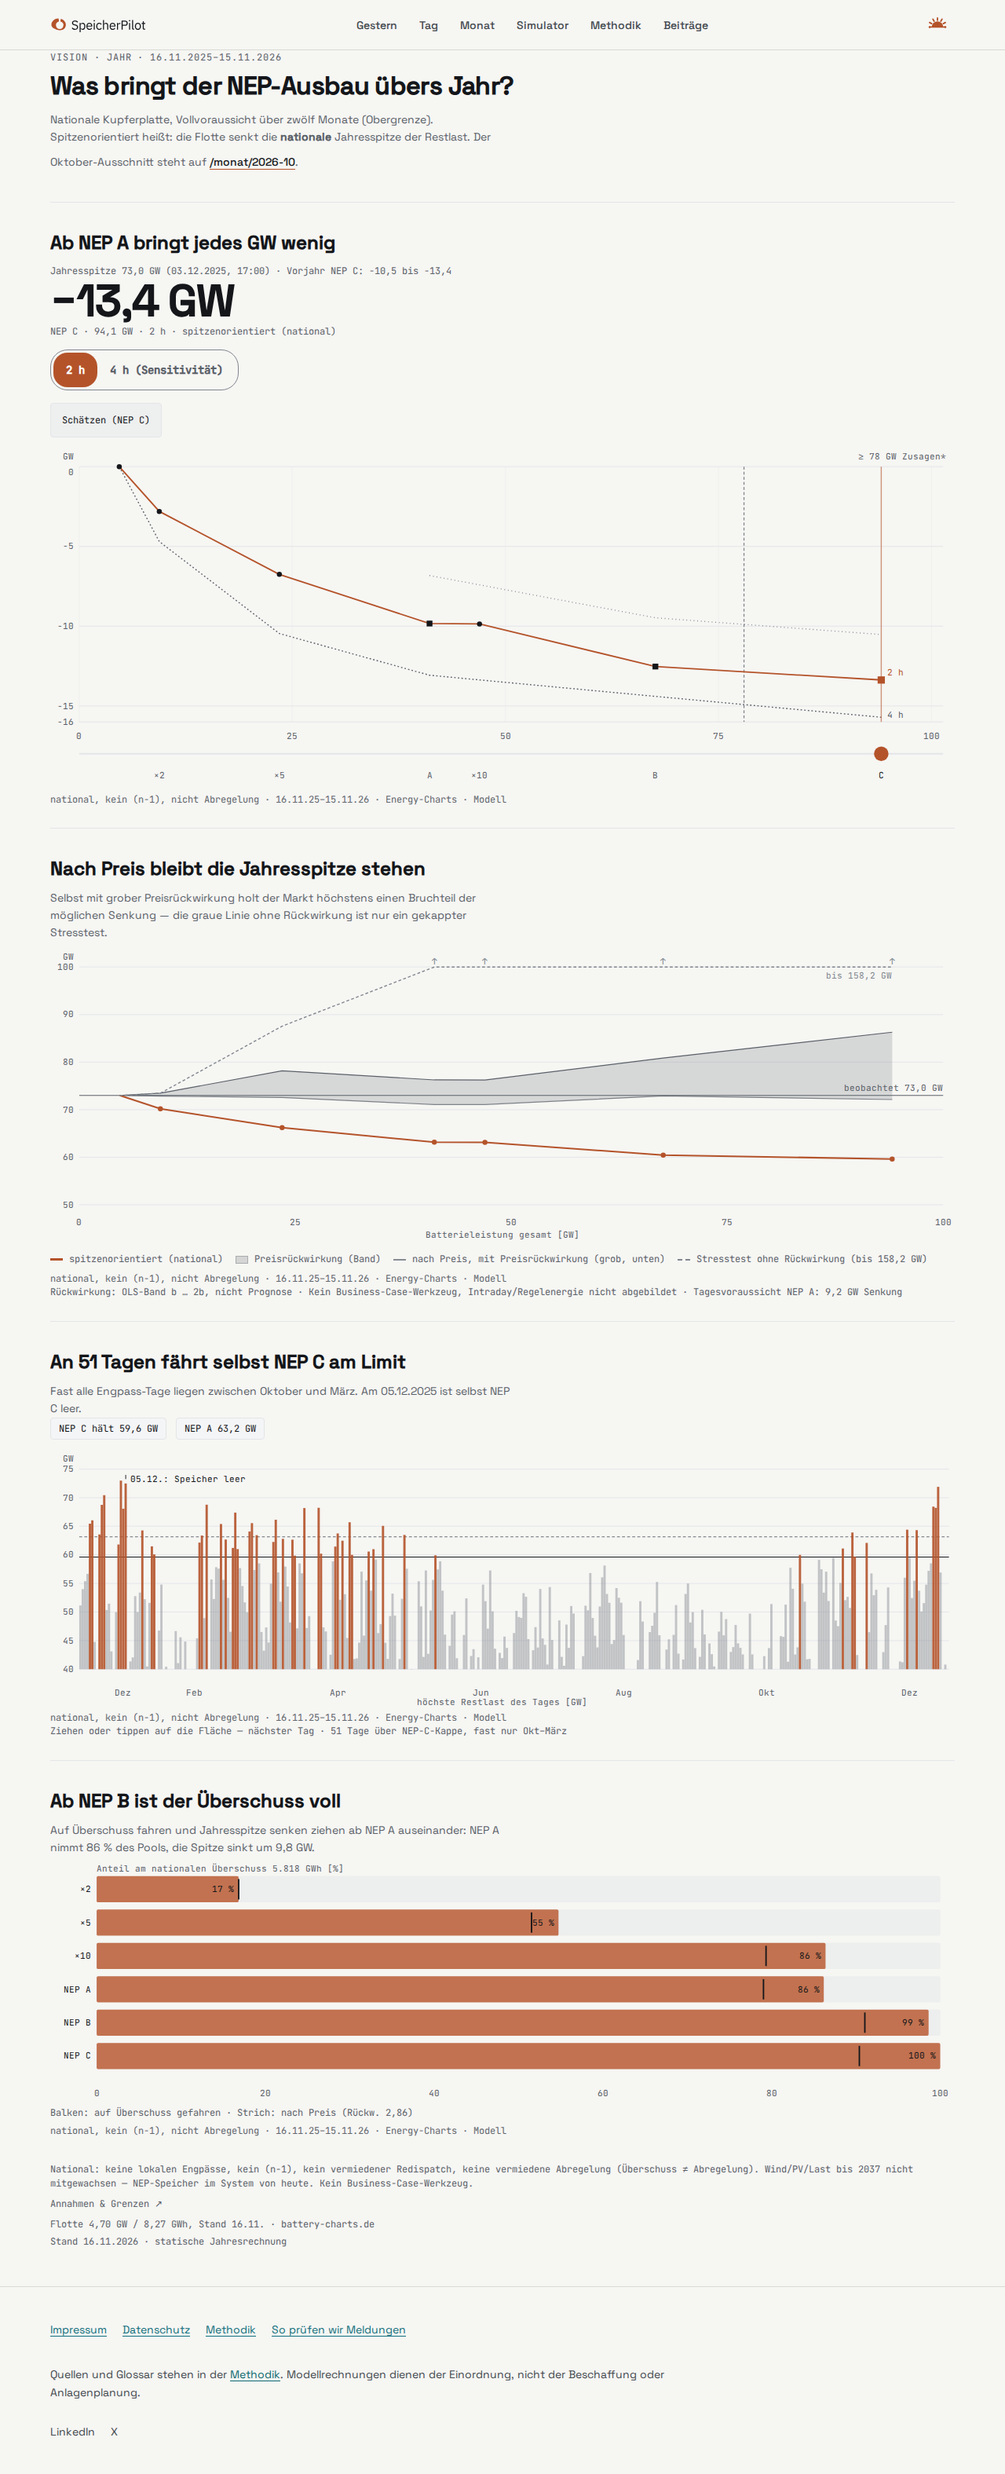
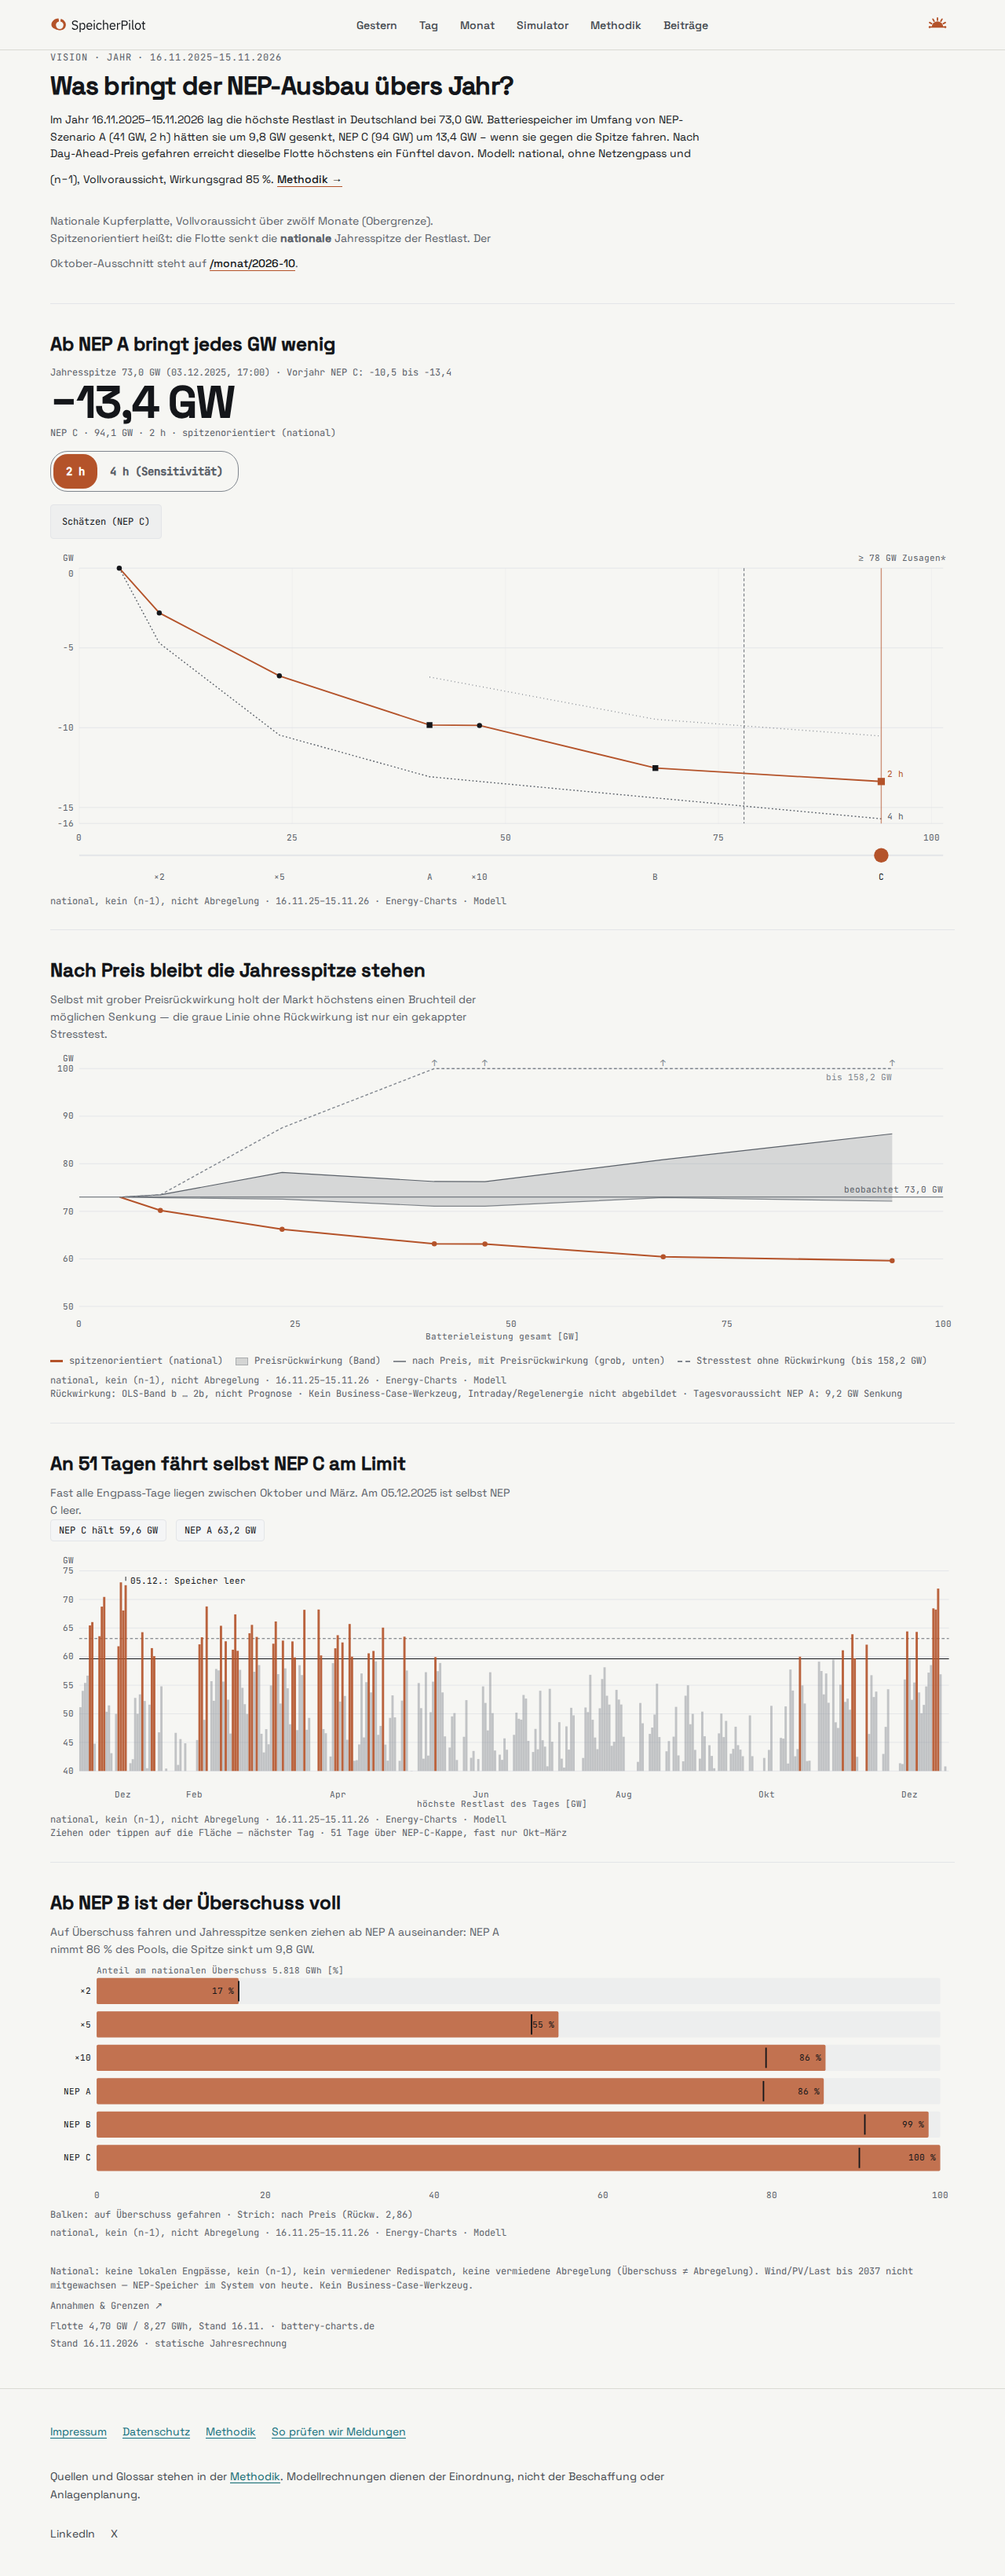
feat(vision): Owner-Kernsatz aus JSON, Meta und Dataset-LD
Kernaussage unter H1; Title/OG/Description; Methodik-Anker #vision-jahr;
JSON-LD Dataset nur /vision; Screens 390 + 1280-light.

diff --git a/lib/research/visionJahrKernsatz.ts b/lib/research/visionJahrKernsatz.ts
@@ -1,0 +1,66 @@
+import datenJahr from "@/data/forschung/daten_jahr_v1.json";
+import { formatVisionGwOne } from "@/lib/research/visionJahrFormat";
+import type { VisionJahrStufeKey } from "@/lib/research/visionJahrTypes";
+
+const SERIES_KEYS: VisionJahrStufeKey[] = ["x2", "x5", "NEP A", "x10", "NEP B", "NEP C"];
+const DURATION_2H = 2;
+
+export const VISION_METHODIK_ANCHOR = "vision-jahr";
+
+export type VisionJahrKernsatz = {
+  /** Fließtext für Seite und Tests */
+  paragraph: string;
+  /** Kurz für Meta-Description */
+  descriptionShort: string;
+  useEinFuenftel: boolean;
+  preisSpitzenRatio: number;
+};
+
+function stufe2h(stufe: string) {
+  return (datenJahr.stufen as Array<{ stufe: string; dauer_h: number; senkung_GW: number; P_ges_GW: number }>).find(
+    (r) => r.stufe === stufe && Math.abs(r.dauer_h - DURATION_2H) < 0.02
+  )!;
+}
+
+/** Kernsatz aus data/forschung/daten_jahr_v1.json (keine Hardcodierung der Zahlen). */
+export function buildVisionJahrKernsatz(): VisionJahrKernsatz {
+  const peak = datenJahr.basis.spitze_GW;
+  const nepA = stufe2h("NEP A");
+  const nepC = stufe2h("NEP C");
+  const rtePct = Math.round(datenJahr.annahmen.rte * 100);
+  const low = datenJahr.markt.rueckwirkung["b=5.73"] as Record<VisionJahrStufeKey, number>;
+  const maxPreisSenkung = Math.max(...SERIES_KEYS.map((k) => Math.max(0, peak - low[k])));
+  const spitzenSenkungRef = nepC.senkung_GW;
+  const ratio = maxPreisSenkung / spitzenSenkungRef;
+  const useEinFuenftel = ratio <= 0.2;
+  if (!useEinFuenftel) {
+    throw new Error(
+      `Kernsatz: Preis-/Spitzen-Verhältnis ${ratio.toFixed(3)} > 0,2 — „Ein Fünftel“ nicht aus JSON ableitbar.`
+    );
+  }
+
+  const zeitraum = "16.11.2025–15.11.2026";
+  const peakDisp = formatVisionGwOne(peak);
+  const nepAGw = String(Math.round(nepA.P_ges_GW));
+  const nepCGw = String(Math.round(nepC.P_ges_GW));
+  const senkADisp = formatVisionGwOne(nepA.senkung_GW);
+  const senkCDisp = formatVisionGwOne(nepC.senkung_GW);
+
+  const paragraph =
+    `Im Jahr ${zeitraum} lag die höchste Restlast in Deutschland bei ${peakDisp}\u00a0GW. ` +
+    `Batteriespeicher im Umfang von NEP-Szenario A (${nepAGw}\u00a0GW, 2\u00a0h) hätten sie um ${senkADisp}\u00a0GW gesenkt, ` +
+    `NEP C (${nepCGw}\u00a0GW) um ${senkCDisp}\u00a0GW – wenn sie gegen die Spitze fahren. ` +
+    `Nach Day-Ahead-Preis gefahren erreicht dieselbe Flotte höchstens ein Fünftel davon. ` +
+    `Modell: national, ohne Netzengpass und (n\u22121), Vollvoraussicht, Wirkungsgrad ${rtePct}\u00a0%.`;
+
+  const descriptionShort =
+    `Jahresrechnung ${zeitraum}: Restlast-Spitze ${peakDisp}\u00a0GW, NEP C senkt bis ${senkCDisp}\u00a0GW spitzenorientiert; ` +
+    `Day-Ahead höchstens ein Fünftel — national, Vollvoraussicht, Modell SpeicherPilot.`;
+
+  return {
+    paragraph,
+    descriptionShort,
+    useEinFuenftel,
+    preisSpitzenRatio: ratio,
+  };
+}

diff --git a/app/vision/page.tsx b/app/vision/page.tsx
@@ -1,22 +1,54 @@
 import type { Metadata } from "next";
 
-import { socialMeta } from "@/lib/siteOg";
-
 import { VisionPage } from "@/components/research/VisionPage";
 import { buildResearchVision } from "@/lib/research/loadResearchVision.server";
+import { buildVisionJahrKernsatz } from "@/lib/research/visionJahrKernsatz";
+import { getPublicSiteOrigin } from "@/lib/publicSiteUrl";
+import { socialMeta } from "@/lib/siteOg";
 
-const description =
-  "NEP-Ausbau übers Jahr: nationale Jahresspitze der Restlast, Markt vs. spitzenorientiert, Überschuss und Winter-Engpässe — 16.11.2025–15.11.2026, Stand 16.11.2026.";
+const TITLE = "NEP-Batteriespeicher: Wie stark sie die Restlastspitze senken (Jahresrechnung) | SpeicherPilot";
+
+function visionMetadata(): { kernsatz: ReturnType<typeof buildVisionJahrKernsatz>; description: string } {
+  const kernsatz = buildVisionJahrKernsatz();
+  return { kernsatz, description: kernsatz.descriptionShort };
+}
+
+const { kernsatz: kernsatzForMeta, description } = visionMetadata();
 
 export const metadata: Metadata = {
-  title: "Vision · NEP übers Jahr",
+  title: TITLE,
   description,
-  ...socialMeta({ title: "Vision · NEP übers Jahr", description, url: "/vision" }),
+  ...socialMeta({ title: TITLE, description, url: "/vision" }),
 };
 
 export const revalidate = 1800;
 
 export default function VisionRoute() {
   const model = buildResearchVision();
-  return <VisionPage model={model} />;
+  const kernsatz = buildVisionJahrKernsatz();
+
+  const jsonLd = {
+    "@context": "https://schema.org",
+    "@type": "Dataset",
+    name: TITLE.replace(/\s*\|\s*SpeicherPilot$/, ""),
+    description: kernsatz.descriptionShort,
+    temporalCoverage: "2025-11-16/2026-11-15",
+    spatialCoverage: {
+      "@type": "Place",
+      name: "Deutschland",
+    },
+    creator: {
+      "@type": "Person",
+      name: "Phillipp Zarindast",
+    },
+    isAccessibleForFree: true,
+    url: `${getPublicSiteOrigin()}/vision`,
+  };
+
+  return (
+    <>
+      <script type="application/ld+json" dangerouslySetInnerHTML={{ __html: JSON.stringify(jsonLd) }} />
+      <VisionPage model={model} kernsatz={kernsatz.paragraph} />
+    </>
+  );
 }

diff --git a/components/methodik/MethodikDocs.tsx b/components/methodik/MethodikDocs.tsx
@@ -178,7 +178,7 @@ export function MethodikDocs({ fleet }: { fleet?: MethodikFleetStand | null }) {
                   "Storage across days: start at 10% usable energy, carry state day to day, remainder at period end. Discharged ≠ 85% of absorbed because energy stays stored. Discharge during import hours is at most Σ min(discharge, max(0, trade)) · ¼ h — not proof that import disappears."
                 )}
               </p>
-              <p>
+              <p id="vision-jahr">
                 {tx(
                   "/vision (Stand 16.11.2026): Zwölf Monate 16.11.2025–15.11.2026, 35 040 Viertelstunden Energy-Charts (Last, Wind, Solar) und Day-Ahead DE-LU 15 min (CC BY 4.0). Referenzflotte 4,70 GW / 8,27 GWh Großspeicher (battery-charts, 16.11.2026). NEP-Stufen 41,1 / 67,6 / 94,1 GW bei 2 h; 4 h nur Sensitivitätslinie. Spitzenorientiert = minimale nationale Jahresspitze der Restlast (Vollvoraussicht, Obergrenze); zusätzlich Tagesvoraussicht als Text. Nach Preis: Day-Ahead-LP; Preisrückwirkung als grobes OLS-Band (b … 2b), nicht Prognose. Price Taker ohne Rückwirkung nur als gekappter Stresstest. Überschuss = Σ max(0, −Restlast) nach Fahrt minus vorher. National, kein (n-1), nicht Abregelung — keine Euro auf der Seite. Rohdaten: data/forschung/daten_jahr_v1.json.",
                   "/vision (as of 16 Nov 2026): twelve months 16 Nov 2025–15 Nov 2026, 35,040 quarter-hours Energy-Charts (load, wind, solar) and DE-LU day-ahead 15 min (CC BY 4.0). Reference fleet 4.70 GW / 8.27 GWh utility storage (battery-charts, 16 Nov 2026). NEP levels 41.1 / 67.6 / 94.1 GW at 2 h; 4 h sensitivity line only. Peak-oriented = minimum national annual residual peak (perfect foresight, upper bound); day-ahead foresight noted in text. By price: day-ahead LP; price feedback as coarse OLS band (b … 2b), not a forecast. Price taker without feedback only as a capped stress test. Surplus = Σ max(0, −residual) after operation minus before. National, not (n-1), not curtailment — no euro on the page. Raw data: data/forschung/daten_jahr_v1.json."

diff --git a/components/research/VisionPage.tsx b/components/research/VisionPage.tsx
@@ -12,6 +12,7 @@ import { VisionJahrChartFoot } from "@/components/research/vision-jahr/VisionJah
 import { VisionJahrG2Markt } from "@/components/research/vision-jahr/VisionJahrG2Markt";
 import { VisionJahrG3Ueberschuss } from "@/components/research/vision-jahr/VisionJahrG3Ueberschuss";
 import { VisionJahrG4Tage } from "@/components/research/vision-jahr/VisionJahrG4Tage";
+import { VisionJahrKernsatzBlock } from "@/components/research/VisionJahrKernsatz";
 import { formatVisionGermanDate, formatVisionGwMinus, formatVisionGwOne, formatVisionPercentWhole } from "@/lib/research/visionJahrFormat";
 import { visionJahrUeberschussPct } from "@/lib/research/visionJahrData";
 import type { VisionJahrModel } from "@/lib/research/visionJahrTypes";
@@ -25,7 +26,7 @@ const DURATIONS = [
 
 const VISION_SKIP_KEY = "speicherpilot-vision-guess-skip";
 
-export function VisionPage({ model }: { model: VisionJahrModel }) {
+export function VisionPage({ model, kernsatz }: { model: VisionJahrModel; kernsatz: string }) {
   const reduced = useReducedMotion();
   const layout = useResearchLayout();
   const pageRef = useRef<HTMLDivElement>(null);
@@ -52,6 +53,7 @@ export function VisionPage({ model }: { model: VisionJahrModel }) {
     <div ref={pageRef} className={`${styles.page} ${styles.visionJahrPage}`}>
       <p className={styles.eyebrow}>VISION · JAHR · 16.11.2025–15.11.2026</p>
       <h1 className={styles.h1}>Was bringt der NEP-Ausbau übers Jahr?</h1>
+      <VisionJahrKernsatzBlock paragraph={kernsatz} />
       <p className={styles.prose}>
         Nationale Kupferplatte, Vollvoraussicht über zwölf Monate (Obergrenze). Spitzenorientiert heißt: die Flotte senkt die{" "}
         <strong> nationale</strong> Jahresspitze der Restlast. Der Oktober-Ausschnitt steht auf{" "}

diff --git a/lib/research/visionJahrPage.test.ts b/lib/research/visionJahrPage.test.ts
@@ -3,6 +3,7 @@ import { renderToStaticMarkup } from "react-dom/server";
 
 import { VisionPage } from "@/components/research/VisionPage";
 import { buildResearchVision } from "@/lib/research/loadResearchVision.server";
+import { buildVisionJahrKernsatz } from "@/lib/research/visionJahrKernsatz";
 import { VISION_CHART_SCOPE } from "@/lib/research/visionJahrScope";
 import { visionJahrCoreDisplayFromJson } from "@/lib/research/visionJahrData";
 import nextConfig from "../../next.config";
@@ -18,7 +19,9 @@ describe("/vision Jahresansicht", () => {
   });
 
   it("enthält kein verbotenes Wort und keine Euro-Zeichen", () => {
-    const html = renderToStaticMarkup(createElement(VisionPage, { model: buildResearchVision() }));
+    const html = renderToStaticMarkup(
+      createElement(VisionPage, { model: buildResearchVision(), kernsatz: buildVisionJahrKernsatz().paragraph })
+    );
     const lower = html.toLowerCase();
     expect(lower).not.toContain("netzdienlich");
     expect(html).not.toMatch(/€/);
@@ -26,7 +29,9 @@ describe("/vision Jahresansicht", () => {
   });
 
   it("trägt den Pflicht-Scope an den Graphen", () => {
-    const html = renderToStaticMarkup(createElement(VisionPage, { model: buildResearchVision() }));
+    const html = renderToStaticMarkup(
+      createElement(VisionPage, { model: buildResearchVision(), kernsatz: buildVisionJahrKernsatz().paragraph })
+    );
     expect(html.split(VISION_CHART_SCOPE).length).toBeGreaterThan(4);
   });
 

diff --git a/lib/research/visionJahrKernsatz.test.ts b/lib/research/visionJahrKernsatz.test.ts
@@ -1,0 +1,18 @@
+import { buildVisionJahrKernsatz } from "@/lib/research/visionJahrKernsatz";
+
+describe("Vision Kernsatz", () => {
+  it("stützt „Ein Fünftel“ aus JSON (Verhältnis ≤ 0,2)", () => {
+    const k = buildVisionJahrKernsatz();
+    expect(k.useEinFuenftel).toBe(true);
+    expect(k.preisSpitzenRatio).toBeLessThanOrEqual(0.2);
+    expect(k.paragraph).toContain("ein Fünftel");
+    expect(k.paragraph).toContain("(n\u22121)");
+  });
+
+  it("enthält keine verbotenen Begriffe", () => {
+    const k = buildVisionJahrKernsatz();
+    const lower = k.paragraph.toLowerCase();
+    expect(lower).not.toContain("netzdienlich");
+    expect(lower).not.toContain("netzanschlussprüfung");
+  });
+});

diff --git a/components/research/VisionJahrKernsatz.tsx b/components/research/VisionJahrKernsatz.tsx
@@ -1,0 +1,15 @@
+import Link from "next/link";
+
+import styles from "@/components/research/research.module.css";
+import { VISION_METHODIK_ANCHOR } from "@/lib/research/visionJahrKernsatz";
+
+export function VisionJahrKernsatzBlock({ paragraph }: { paragraph: string }) {
+  return (
+    <p className={styles.kernsatz} id="vision-kernsatz">
+      {paragraph}{" "}
+      <Link href={`/methodik#${VISION_METHODIK_ANCHOR}`} className={styles.link}>
+        Methodik →
+      </Link>
+    </p>
+  );
+}

diff --git a/components/research/research.module.css b/components/research/research.module.css
@@ -93,6 +93,14 @@
   color: var(--research-muted);
 }
 
+.kernsatz {
+  font-size: var(--type-14);
+  line-height: 1.55;
+  color: var(--research-fg);
+  margin: 12px 0 20px;
+  max-width: 52rem;
+}
+
 .prose {
   font-family: var(--font-space-grotesk), ui-sans-serif, system-ui, sans-serif;
   font-size: var(--type-14);
